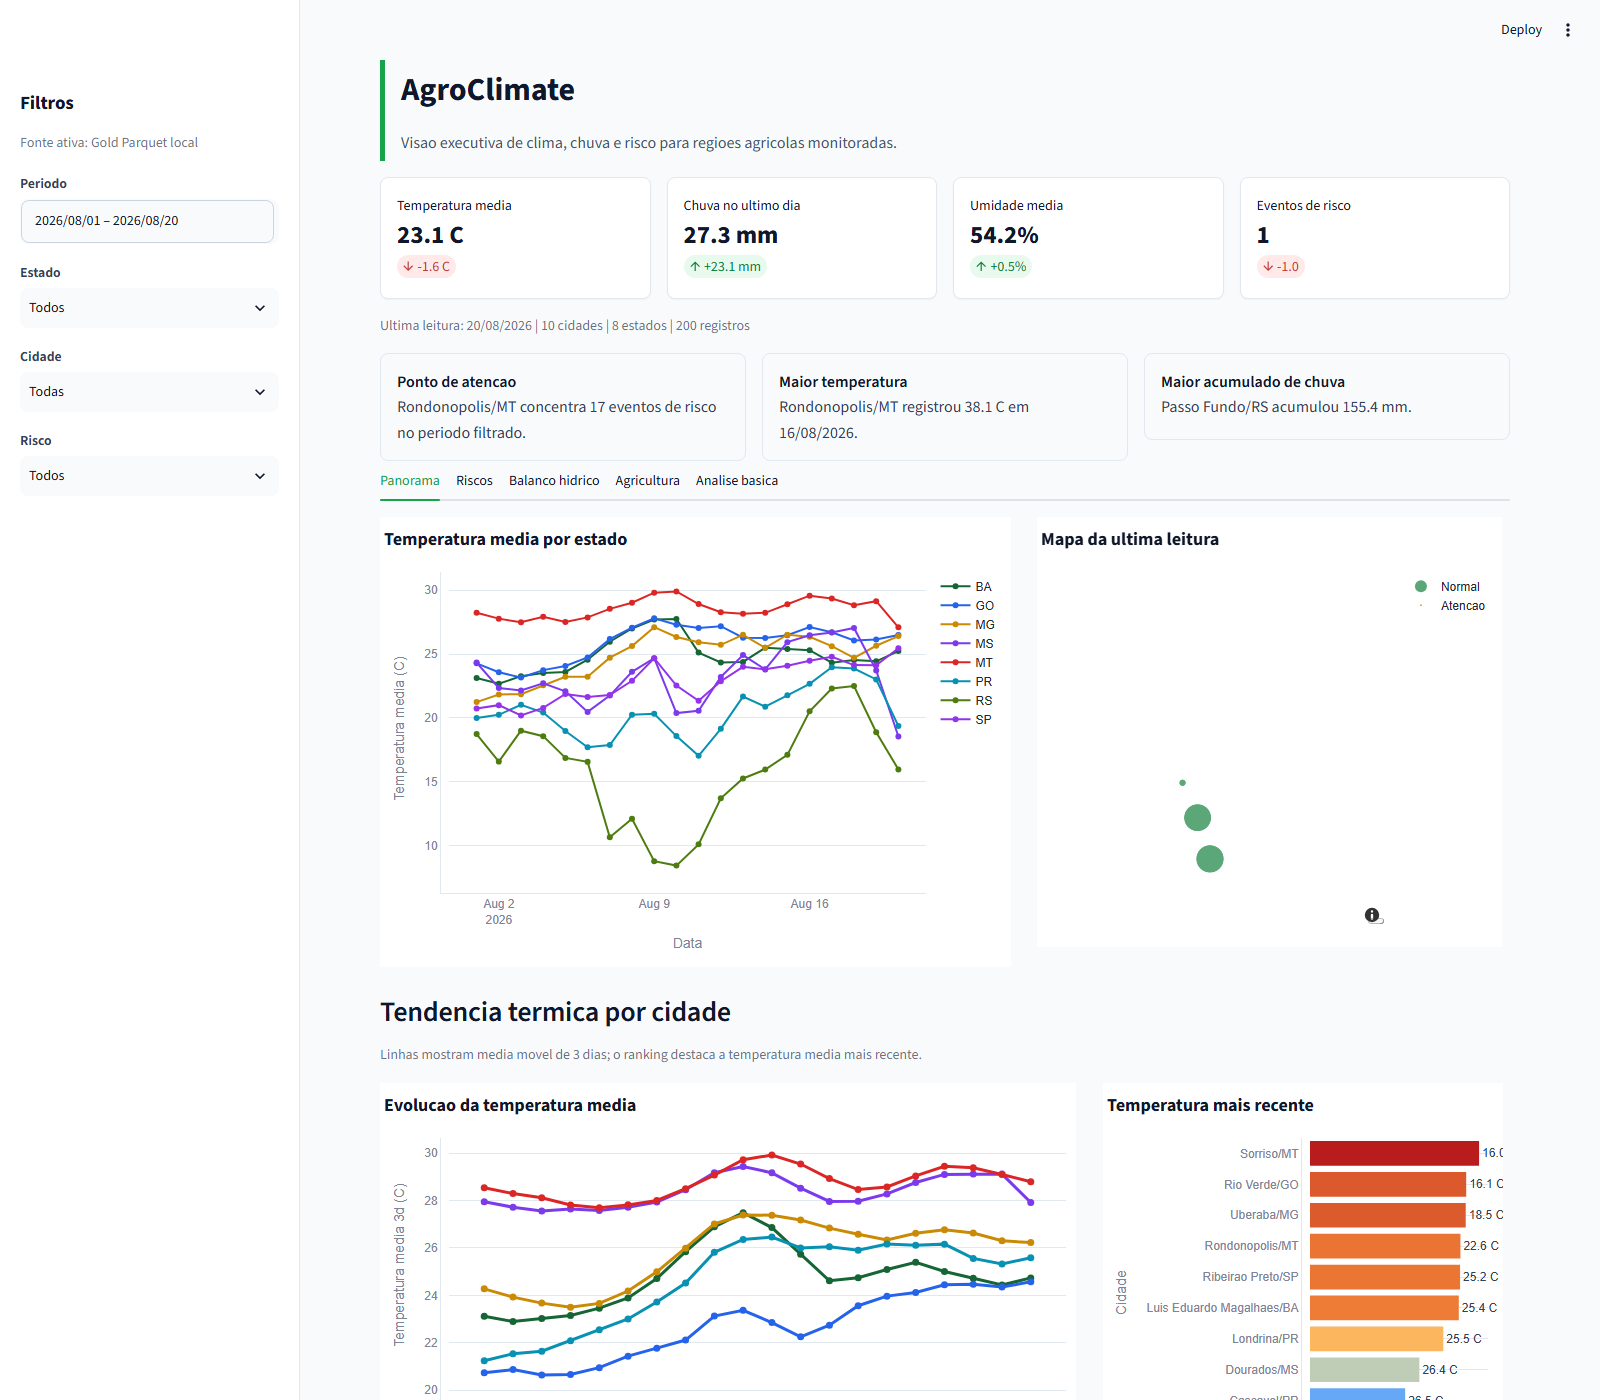
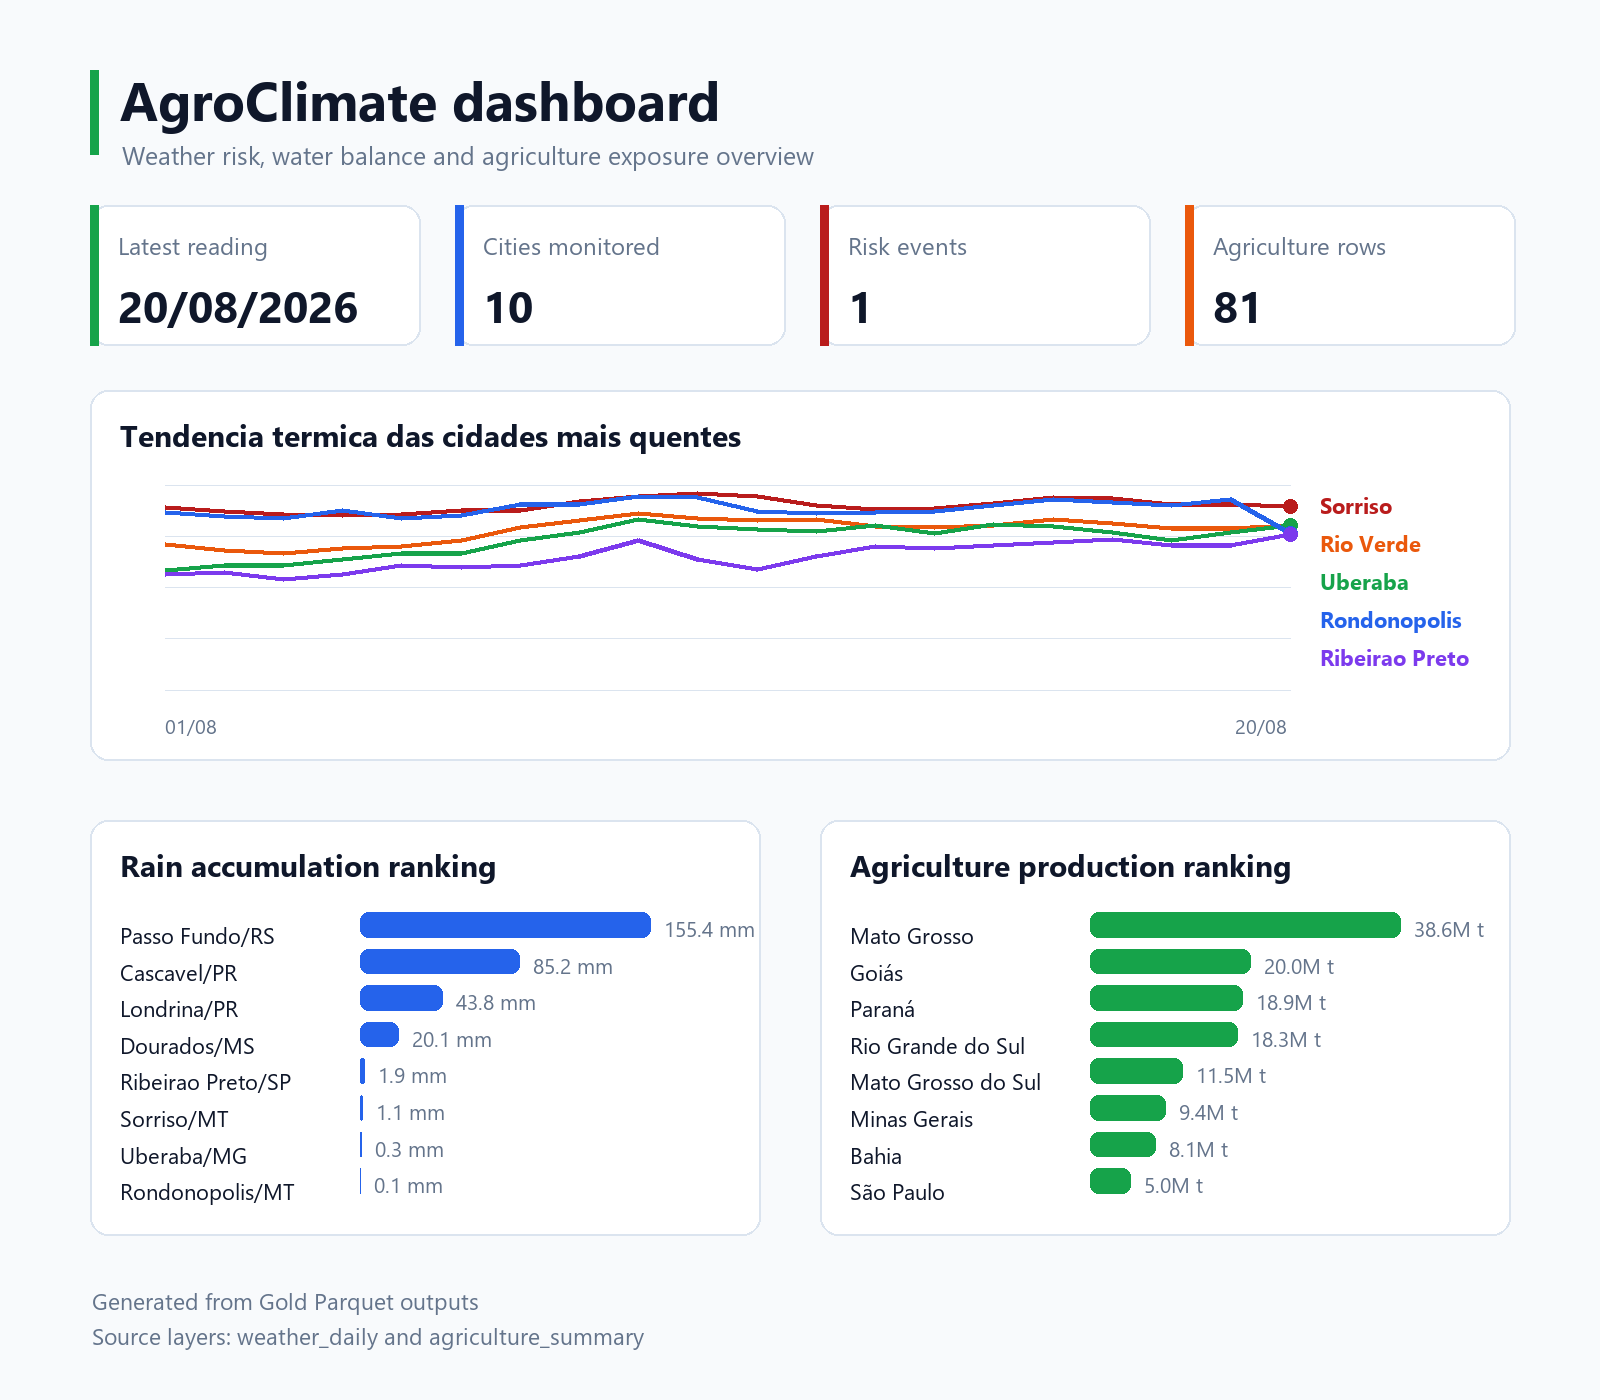
modi

diff --git a/scripts/generate_linkedin_cards.py b/scripts/generate_linkedin_cards.py
@@ -174,6 +174,52 @@ def save_agriculture_card(weather: pd.DataFrame, agriculture: pd.DataFrame, out:
     image.save(out)
 
 
+def save_dashboard_panorama(weather: pd.DataFrame, agriculture: pd.DataFrame, out: Path) -> None:
+    image = Image.new("RGB", (WIDTH, 1400), BG)
+    draw = ImageDraw.Draw(image)
+    latest_date = pd.to_datetime(weather["event_date"].max()).strftime("%d/%m/%Y")
+    latest = weather[weather["event_date"] == weather["event_date"].max()].copy()
+    draw_header(draw, "AgroClimate dashboard", "Weather risk, water balance and agriculture exposure overview")
+    cards = [
+        ("Latest reading", latest_date, GREEN),
+        ("Cities monitored", str(weather["city"].nunique()), BLUE),
+        ("Risk events", str(int(latest[["drought_risk", "heat_risk", "heavy_rain_risk"]].eq("high").sum().sum())), RED),
+        ("Agriculture rows", f"{len(agriculture):,}".replace(",", "."), ORANGE),
+    ]
+    for i, item in enumerate(cards):
+        draw_card(draw, (90 + i * 365, 205, 420 + i * 365, 345), *item)
+
+    draw_line_chart(draw, weather, (90, 390, 1510, 760))
+
+    rain = (
+        weather.groupby(["city", "state"], as_index=False)["total_precipitation"]
+        .sum()
+        .sort_values("total_precipitation", ascending=False)
+        .head(8)
+    )
+    rain["value"] = rain["total_precipitation"]
+    rain["label"] = rain["city"] + "/" + rain["state"]
+    rain["display"] = rain["total_precipitation"].map(lambda value: f"{value:.1f} mm")
+    rain["color"] = BLUE
+    draw_bar_chart(draw, rain, (90, 820, 760, 1235), "Rain accumulation ranking")
+
+    production = (
+        agriculture.groupby("territory_name", as_index=False)["produced_quantity"]
+        .sum()
+        .sort_values("produced_quantity", ascending=False)
+        .head(8)
+    )
+    production["value"] = production["produced_quantity"]
+    production["label"] = production["territory_name"]
+    production["display"] = production["produced_quantity"].map(lambda value: f"{value / 1_000_000:.1f}M t")
+    production["color"] = GREEN
+    draw_bar_chart(draw, production, (820, 820, 1510, 1235), "Agriculture production ranking")
+
+    draw.text((92, 1285), "Generated from Gold Parquet outputs", fill=MUTED, font=font(23))
+    draw.text((92, 1320), "Source layers: weather_daily and agriculture_summary", fill=MUTED, font=font(23))
+    image.save(out)
+
+
 def _temperature_color(value: float) -> str:
     if value >= 28:
         return RED
@@ -188,6 +234,7 @@ def main() -> None:
     out.mkdir(parents=True, exist_ok=True)
     weather = pd.read_parquet(settings.gold_dir / "weather_daily")
     agriculture = pd.read_parquet(settings.gold_dir / "agriculture_summary")
+    save_dashboard_panorama(weather, agriculture, out / "agroclimate-dashboard-panorama.png")
     save_overview(weather, agriculture, out / "linkedin-01-overview.png")
     save_climate_card(weather, out / "linkedin-02-climate-monitoring.png")
     save_agriculture_card(weather, agriculture, out / "linkedin-03-agriculture-exposure.png")
